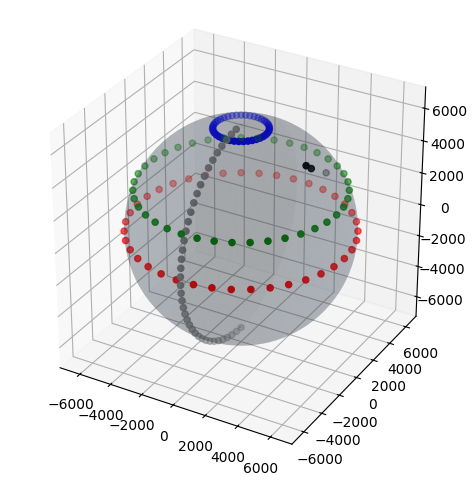
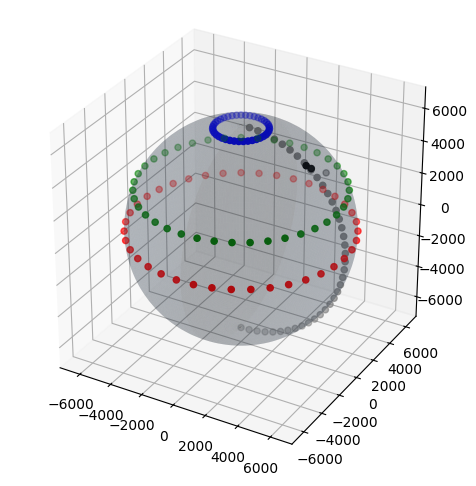
post hav fixies II

diff --git a/_site/posts/gds-2024-01-10-haversine-dist/index.html b/_site/posts/gds-2024-01-10-haversine-dist/index.html
@@ -271,7 +271,7 @@ window.Quarto = {
   <li><a href="#sec-haversine-distance" id="toc-sec-haversine-distance" class="nav-link" data-scroll-target="#sec-haversine-distance">Haversine Distance</a></li>
   <li><a href="#sec-implementation" id="toc-sec-implementation" class="nav-link" data-scroll-target="#sec-implementation">Implementation and examples</a></li>
   <li><a href="#sec-numerical-stability" id="toc-sec-numerical-stability" class="nav-link" data-scroll-target="#sec-numerical-stability">Numerical stability</a></li>
-  <li><a href="#sec-vincentry-formula" id="toc-sec-vincentry-formula" class="nav-link" data-scroll-target="#sec-vincentry-formula">See also: Vincety’s formula</a></li>
+  <li><a href="#sec-vincentry-formula" id="toc-sec-vincentry-formula" class="nav-link" data-scroll-target="#sec-vincentry-formula">See also: Vincenty’s formula</a></li>
   </ul>
 </nav>
     </div>
@@ -332,7 +332,7 @@ Figure&nbsp;1
 <section id="sec-map-projection" class="level2">
 <h2 class="anchored" data-anchor-id="sec-map-projection">Map Projection on the Sphere Experiments</h2>
 <p>To check all is working correctly we will plot on the 3D sphere a sequence of equidistant points around the equator (in red), around the tropic of Cancer (in green), around the Arctic Polar circle (of course in blue), and then the cities of Rome, Paris and London (in black). To show a visual reference to make sense of the position of these three cities, we also plot the meridian zero (in gray).</p>
-<div id="cell-3" class="cell" data-execution_count="1">
+<div id="cell-3" class="cell" data-execution_count="15">
 <div class="sourceCode cell-code" id="cb1"><pre class="sourceCode python code-with-copy"><code class="sourceCode python"><span id="cb1-1"><a href="#cb1-1" aria-hidden="true" tabindex="-1"></a><span class="im">import</span> numpy <span class="im">as</span> np</span>
 <span id="cb1-2"><a href="#cb1-2" aria-hidden="true" tabindex="-1"></a></span>
 <span id="cb1-3"><a href="#cb1-3" aria-hidden="true" tabindex="-1"></a></span>
@@ -346,7 +346,7 @@ Figure&nbsp;1
 <span id="cb1-11"><a href="#cb1-11" aria-hidden="true" tabindex="-1"></a>    <span class="cf">return</span> (x, y, z)</span>
 <span id="cb1-12"><a href="#cb1-12" aria-hidden="true" tabindex="-1"></a>    </span></code><button title="Copy to Clipboard" class="code-copy-button"><i class="bi"></i></button></pre></div>
 </div>
-<div id="cell-4" class="cell" data-execution_count="2">
+<div id="cell-4" class="cell" data-execution_count="16">
 <div class="sourceCode cell-code" id="cb2"><pre class="sourceCode python code-with-copy"><code class="sourceCode python"><span id="cb2-1"><a href="#cb2-1" aria-hidden="true" tabindex="-1"></a>N <span class="op">=</span> <span class="dv">40</span></span>
 <span id="cb2-2"><a href="#cb2-2" aria-hidden="true" tabindex="-1"></a></span>
 <span id="cb2-3"><a href="#cb2-3" aria-hidden="true" tabindex="-1"></a><span class="co"># Create N equidistant points around the equator</span></span>
@@ -363,14 +363,14 @@ Figure&nbsp;1
 <span id="cb2-14"><a href="#cb2-14" aria-hidden="true" tabindex="-1"></a></span>
 <span id="cb2-15"><a href="#cb2-15" aria-hidden="true" tabindex="-1"></a><span class="co"># Create N equidistant points at meridian 0</span></span>
 <span id="cb2-16"><a href="#cb2-16" aria-hidden="true" tabindex="-1"></a>lat_at_meridian_deg <span class="op">=</span> np.linspace(<span class="op">-</span><span class="dv">90</span>, <span class="dv">90</span>, N)[:<span class="op">-</span><span class="dv">1</span>]</span>
-<span id="cb2-17"><a href="#cb2-17" aria-hidden="true" tabindex="-1"></a>lon_at_meridian_deg <span class="op">=</span> <span class="op">-</span><span class="dv">90</span> <span class="op">*</span> np.ones_like(lat_at_meridian_deg) </span>
+<span id="cb2-17"><a href="#cb2-17" aria-hidden="true" tabindex="-1"></a>lon_at_meridian_deg <span class="op">=</span> np.ones_like(lat_at_meridian_deg) </span>
 <span id="cb2-18"><a href="#cb2-18" aria-hidden="true" tabindex="-1"></a></span>
 <span id="cb2-19"><a href="#cb2-19" aria-hidden="true" tabindex="-1"></a><span class="co"># a selection of 3 cities</span></span>
 <span id="cb2-20"><a href="#cb2-20" aria-hidden="true" tabindex="-1"></a>lon_lat_london <span class="op">=</span> ( <span class="fl">0.1276</span>, <span class="fl">51.5072</span>)</span>
 <span id="cb2-21"><a href="#cb2-21" aria-hidden="true" tabindex="-1"></a>lon_lat_paris  <span class="op">=</span> ( <span class="fl">2.3522</span>, <span class="fl">48.8566</span>)</span>
 <span id="cb2-22"><a href="#cb2-22" aria-hidden="true" tabindex="-1"></a>lon_lat_rome   <span class="op">=</span> (<span class="fl">12.4964</span>, <span class="fl">41.9028</span>)</span></code><button title="Copy to Clipboard" class="code-copy-button"><i class="bi"></i></button></pre></div>
 </div>
-<div id="cell-5" class="cell" data-execution_count="3">
+<div id="cell-5" class="cell" data-execution_count="17">
 <div class="sourceCode cell-code" id="cb3"><pre class="sourceCode python code-with-copy"><code class="sourceCode python"><span id="cb3-1"><a href="#cb3-1" aria-hidden="true" tabindex="-1"></a><span class="im">import</span> matplotlib.pyplot <span class="im">as</span> plt</span>
 <span id="cb3-2"><a href="#cb3-2" aria-hidden="true" tabindex="-1"></a></span>
 <span id="cb3-3"><a href="#cb3-3" aria-hidden="true" tabindex="-1"></a>fig <span class="op">=</span> plt.figure()</span>
@@ -428,7 +428,7 @@ Figure&nbsp;2
 </figure>
 </div>
 <p>So now we know how to adjust for the number of points to maintain their distance equal while modulating the latitude.</p>
-<div id="cell-8" class="cell" data-execution_count="4">
+<div id="cell-8" class="cell" data-execution_count="18">
 <div class="sourceCode cell-code" id="cb4"><pre class="sourceCode python code-with-copy"><code class="sourceCode python"><span id="cb4-1"><a href="#cb4-1" aria-hidden="true" tabindex="-1"></a><span class="kw">def</span> num_points_at_latitude(num_points, latitude_deg):</span>
 <span id="cb4-2"><a href="#cb4-2" aria-hidden="true" tabindex="-1"></a>    <span class="cf">return</span> <span class="bu">int</span>(num_points <span class="op">*</span> np.cos(np.radians(latitude_deg)))</span>
 <span id="cb4-3"><a href="#cb4-3" aria-hidden="true" tabindex="-1"></a></span>
@@ -457,7 +457,7 @@ at the tropic: 36
 at the equator: 40</code></pre>
 </div>
 </div>
-<div id="cell-9" class="cell" data-execution_count="5">
+<div id="cell-9" class="cell" data-execution_count="19">
 <div class="sourceCode cell-code" id="cb6"><pre class="sourceCode python code-with-copy"><code class="sourceCode python"><span id="cb6-1"><a href="#cb6-1" aria-hidden="true" tabindex="-1"></a><span class="co"># Repeated code from cells above</span></span>
 <span id="cb6-2"><a href="#cb6-2" aria-hidden="true" tabindex="-1"></a></span>
 <span id="cb6-3"><a href="#cb6-3" aria-hidden="true" tabindex="-1"></a>fig <span class="op">=</span> plt.figure()</span>
@@ -584,8 +584,8 @@ d = 2 \mathcal{R} \arcsin
 <section id="proof-of-eq-hav-1" class="level4">
 <h4 class="anchored" data-anchor-id="proof-of-eq-hav-1">Proof of <a href="#eq-hav-1" class="quarto-xref">Equation&nbsp;5</a></h4>
 <p><strong>Hypothesis:</strong> <span class="math inline">\(A\)</span> and <span class="math inline">\(B\)</span> points on the surface of a sphere, with coordinates</p>
-<p><span class="math inline">\(A=(\varphi_A, \theta_A) = (\cos\theta_A~\cos\varphi_A, \sin\theta_A~\cos\varphi_A, \sin\varphi_A )\)</span> and</p>
-<p><span class="math inline">\(B=(\varphi_B, \theta_B) = (\cos\theta_B~\cos\varphi_B, \sin\theta_B~\cos\varphi_B, \sin\varphi_B )\)</span></p>
+<p><span class="math inline">\(A=(\theta_A, \varphi_A) = (\cos\theta_A~\cos\varphi_A, \sin\theta_A~\cos\varphi_A, \sin\varphi_A )\)</span> and</p>
+<p><span class="math inline">\(B=(\theta_B, \varphi_B) = (\cos\theta_B~\cos\varphi_B, \sin\theta_B~\cos\varphi_B, \sin\varphi_B )\)</span></p>
 <p>and <span class="math inline">\(\lambda\)</span> angle at the centre of the sphere.</p>
 <p><strong>Thesis:</strong> <span class="math inline">\(\text{hav}(\lambda) = \text{hav}(\varphi_B - \varphi_A) + \cos\varphi_A \cos\varphi_B ~\text{hav}(\theta_B - \theta_A)\)</span>.</p>
 <p>It is always possible to rotate the axis so to have <span class="math inline">\(\theta_A = 0\)</span>, and <span class="math inline">\(\tilde{\theta}_B = \theta_B - \theta_A\)</span>. In the new coordinate system we have: <span class="math display">\[
@@ -629,7 +629,7 @@ B &amp;=(\cos\tilde{\theta}_B~\cos\varphi_B, \sin\tilde{\theta}_B~\cos\varphi_B,
 <section id="sec-implementation" class="level2">
 <h2 class="anchored" data-anchor-id="sec-implementation">Implementation and examples</h2>
 <p>From a computational point of view, as sadi before, we want to avoid computing <span class="math inline">\(\sin\)</span> when the angles are very small. So a stable implementation would use the last part of <a href="#eq-hav-0" class="quarto-xref">Equation&nbsp;2</a>.</p>
-<div id="cell-17" class="cell" data-execution_count="6">
+<div id="cell-17" class="cell" data-execution_count="20">
 <div class="sourceCode cell-code" id="cb7"><pre class="sourceCode python code-with-copy"><code class="sourceCode python"><span id="cb7-1"><a href="#cb7-1" aria-hidden="true" tabindex="-1"></a><span class="co">""" Haversine function in python"""</span></span>
 <span id="cb7-2"><a href="#cb7-2" aria-hidden="true" tabindex="-1"></a></span>
 <span id="cb7-3"><a href="#cb7-3" aria-hidden="true" tabindex="-1"></a><span class="kw">def</span> hav_function_sin(theta_A, phi_A, theta_B, phi_B):</span>
@@ -641,7 +641,7 @@ B &amp;=(\cos\tilde{\theta}_B~\cos\varphi_B, \sin\tilde{\theta}_B~\cos\varphi_B,
 <span id="cb7-9"><a href="#cb7-9" aria-hidden="true" tabindex="-1"></a>    theta_1, phi_1, theta_2, phi_2 <span class="op">=</span> <span class="bu">map</span>(np.radians, [lon_1, lat_1, lon_2, lat_2])</span>
 <span id="cb7-10"><a href="#cb7-10" aria-hidden="true" tabindex="-1"></a>    <span class="cf">return</span> <span class="dv">2</span> <span class="op">*</span> R_Km <span class="op">*</span> np.arcsin(np.sqrt(hav_function_sin(theta_1, phi_1, theta_2, phi_2)))</span></code><button title="Copy to Clipboard" class="code-copy-button"><i class="bi"></i></button></pre></div>
 </div>
-<div id="cell-18" class="cell" data-execution_count="7">
+<div id="cell-18" class="cell" data-execution_count="21">
 <div class="sourceCode cell-code" id="cb8"><pre class="sourceCode python code-with-copy"><code class="sourceCode python"><span id="cb8-1"><a href="#cb8-1" aria-hidden="true" tabindex="-1"></a><span class="co"># Verify that it looks correct:</span></span>
 <span id="cb8-2"><a href="#cb8-2" aria-hidden="true" tabindex="-1"></a>PREC <span class="op">=</span> <span class="dv">6</span></span>
 <span id="cb8-3"><a href="#cb8-3" aria-hidden="true" tabindex="-1"></a><span class="bu">print</span>(<span class="ss">f"Distance London to London = </span><span class="sc">{</span><span class="bu">round</span>(haversine_distance_sin(<span class="op">*</span>lon_lat_london, <span class="op">*</span>lon_lat_london), PREC)<span class="sc">}</span><span class="ss"> Km"</span>)</span>
@@ -654,7 +654,7 @@ Distance Paris to London  = 334.563443 Km</code></pre>
 </div>
 </div>
 <p>It seems to be working correctly. Let’s compare it with an out of the box function from the library <code>sklearn</code> (see also this <a href="https://stackoverflow.com/questions/4913349/haversine-formula-in-python-bearing-and-distance-between-two-gps-points">stack overflow discussion</a> and <a href="https://stackoverflow.com/questions/19412462/getting-distance-between-two-points-based-on-latitude-longitude">this one</a>)</p>
-<div id="cell-20" class="cell" data-execution_count="8">
+<div id="cell-20" class="cell" data-execution_count="22">
 <div class="sourceCode cell-code" id="cb10"><pre class="sourceCode python code-with-copy"><code class="sourceCode python"><span id="cb10-1"><a href="#cb10-1" aria-hidden="true" tabindex="-1"></a><span class="im">from</span> sklearn.metrics.pairwise <span class="im">import</span> haversine_distances <span class="im">as</span> haversine_distances_sklearn</span>
 <span id="cb10-2"><a href="#cb10-2" aria-hidden="true" tabindex="-1"></a></span>
 <span id="cb10-3"><a href="#cb10-3" aria-hidden="true" tabindex="-1"></a>lon_A, lat_A <span class="op">=</span> lon_lat_london</span>
@@ -671,7 +671,7 @@ Distance Paris to London  = 334.563443 Km</code></pre>
 <section id="sec-numerical-stability" class="level2">
 <h2 class="anchored" data-anchor-id="sec-numerical-stability">Numerical stability</h2>
 <p>Let’s see what happens in term of numerical stability. We take now two points in london very close to each others:</p>
-<div id="cell-22" class="cell" data-execution_count="9">
+<div id="cell-22" class="cell" data-execution_count="23">
 <div class="sourceCode cell-code" id="cb12"><pre class="sourceCode python code-with-copy"><code class="sourceCode python"><span id="cb12-1"><a href="#cb12-1" aria-hidden="true" tabindex="-1"></a>lon_lat_london_1 <span class="op">=</span> (<span class="fl">0.1276</span>, <span class="fl">51.5072</span>)</span>
 <span id="cb12-2"><a href="#cb12-2" aria-hidden="true" tabindex="-1"></a>lon_lat_london_2 <span class="op">=</span> (<span class="fl">0.1276</span>, <span class="fl">51.50720001</span>)</span>
 <span id="cb12-3"><a href="#cb12-3" aria-hidden="true" tabindex="-1"></a>PREC <span class="op">=</span> <span class="dv">20</span></span>
@@ -683,7 +683,7 @@ Distance Paris to London  = 334.563443 Km</code></pre>
 </div>
 <p>We can see that our implementation with the haversine function, computed with the <code>sin</code> version, does not collapse to zero.</p>
 <p>What happens if we re-implement with function with the cosine?</p>
-<div id="cell-24" class="cell" data-execution_count="10">
+<div id="cell-24" class="cell" data-execution_count="24">
 <div class="sourceCode cell-code" id="cb14"><pre class="sourceCode python code-with-copy"><code class="sourceCode python"><span id="cb14-1"><a href="#cb14-1" aria-hidden="true" tabindex="-1"></a><span class="co"># repeated code with a small change. Now the Haversine function is computed with the cosine</span></span>
 <span id="cb14-2"><a href="#cb14-2" aria-hidden="true" tabindex="-1"></a></span>
 <span id="cb14-3"><a href="#cb14-3" aria-hidden="true" tabindex="-1"></a><span class="kw">def</span> hav_function_cos(theta_A, phi_A, theta_B, phi_B):</span>
@@ -695,7 +695,7 @@ Distance Paris to London  = 334.563443 Km</code></pre>
 <span id="cb14-9"><a href="#cb14-9" aria-hidden="true" tabindex="-1"></a>    theta_1, phi_1, theta_2, phi_2 <span class="op">=</span> <span class="bu">map</span>(np.radians, [lon_1, lat_1, lon_2, lat_2])</span>
 <span id="cb14-10"><a href="#cb14-10" aria-hidden="true" tabindex="-1"></a>    <span class="cf">return</span> <span class="dv">2</span> <span class="op">*</span> R_Km <span class="op">*</span> np.arcsin(np.sqrt(hav_function_cos(theta_1, phi_1, theta_2, phi_2)))</span></code><button title="Copy to Clipboard" class="code-copy-button"><i class="bi"></i></button></pre></div>
 </div>
-<div id="cell-25" class="cell" data-execution_count="11">
+<div id="cell-25" class="cell" data-execution_count="25">
 <div class="sourceCode cell-code" id="cb15"><pre class="sourceCode python code-with-copy"><code class="sourceCode python"><span id="cb15-1"><a href="#cb15-1" aria-hidden="true" tabindex="-1"></a><span class="bu">print</span>(<span class="ss">f"Distance London to Paris (hav with cos) = </span><span class="sc">{</span><span class="bu">round</span>(haversine_distance_cos(<span class="op">*</span>lon_lat_london, <span class="op">*</span>lon_lat_paris), PREC)<span class="sc">}</span><span class="ss"> Km"</span>)</span>
 <span id="cb15-2"><a href="#cb15-2" aria-hidden="true" tabindex="-1"></a><span class="bu">print</span>(<span class="ss">f"Very small distance (hav with cos)      = </span><span class="sc">{</span><span class="bu">round</span>(haversine_distance_cos(<span class="op">*</span>lon_lat_london_1, <span class="op">*</span>lon_lat_london_2), PREC)<span class="sc">}</span><span class="ss"> Km"</span>)</span>
 <span id="cb15-3"><a href="#cb15-3" aria-hidden="true" tabindex="-1"></a><span class="bu">print</span>(<span class="ss">f"Very small distance (hav with sin)      = </span><span class="sc">{</span><span class="bu">round</span>(haversine_distance_sin(<span class="op">*</span>lon_lat_london_1, <span class="op">*</span>lon_lat_london_2), PREC)<span class="sc">}</span><span class="ss"> Km"</span>)</span></code><button title="Copy to Clipboard" class="code-copy-button"><i class="bi"></i></button></pre></div>
@@ -707,7 +707,7 @@ Very small distance (hav with sin)      = 1.11194938401393e-06 Km</code></pre>
 </div>
 <p>The function works well for large angles, though for small angle the Haversine distance computed with the cosine collapses.</p>
 <p>Had the developers of <code>sklearn</code> use the <code>sin</code> or the <code>cos</code>?</p>
-<div id="cell-27" class="cell" data-execution_count="12">
+<div id="cell-27" class="cell" data-execution_count="26">
 <div class="sourceCode cell-code" id="cb17"><pre class="sourceCode python code-with-copy"><code class="sourceCode python"><span id="cb17-1"><a href="#cb17-1" aria-hidden="true" tabindex="-1"></a>lon_A, lat_A <span class="op">=</span> lon_lat_london_1</span>
 <span id="cb17-2"><a href="#cb17-2" aria-hidden="true" tabindex="-1"></a>lon_B, lat_B <span class="op">=</span> lon_lat_london_2</span>
 <span id="cb17-3"><a href="#cb17-3" aria-hidden="true" tabindex="-1"></a>vals <span class="op">=</span> [[np.radians(lat_A), np.radians(lon_A)], [np.radians(lat_B), np.radians(lon_B)]]</span>
@@ -723,10 +723,10 @@ Very small distance (hav with sin)      = 1.11194938401393e-06 Km</code></pre>
 <p>We can see that (at least for this case) our results and the <code>sklearn</code> implementation are the same! And we may even daring to assume that <code>sklearn</code> implemented the haversine distance with the <code>sin</code> formula.</p>
 </section>
 <section id="sec-vincentry-formula" class="level2">
-<h2 class="anchored" data-anchor-id="sec-vincentry-formula">See also: Vincety’s formula</h2>
-<p>To compute the distance between two points on an ellipsoid model (which is more accurate than the spherical model on which the Haversine is based on) there is the Vincety formula.</p>
+<h2 class="anchored" data-anchor-id="sec-vincentry-formula">See also: Vincenty’s formula</h2>
+<p>To compute the distance between two points on an ellipsoid model (which is more accurate than the spherical model on which the Haversine is based on) there is the Vincenty formula <a href="#fn2" class="footnote-ref" id="fnref2" role="doc-noteref"><sup>2</sup></a>.</p>
 <p>Its mathematical derivation may be the topic for another post, though if you want to have it computed with a tool out of the box, we recommend the library <code>geopy</code>.</p>
-<div id="cell-30" class="cell" data-execution_count="13">
+<div id="cell-30" class="cell" data-execution_count="27">
 <div class="sourceCode cell-code" id="cb19"><pre class="sourceCode python code-with-copy"><code class="sourceCode python"><span id="cb19-1"><a href="#cb19-1" aria-hidden="true" tabindex="-1"></a><span class="im">from</span> geopy <span class="im">import</span> distance</span>
 <span id="cb19-2"><a href="#cb19-2" aria-hidden="true" tabindex="-1"></a></span>
 <span id="cb19-3"><a href="#cb19-3" aria-hidden="true" tabindex="-1"></a>lon_A, lat_A <span class="op">=</span> lon_lat_london</span>
@@ -756,6 +756,7 @@ Relative error = |ground - calculated|/|ground| = 0.095689 %</code></pre>
 
 <ol>
 <li id="fn1"><p>See for example by JP Snyder · 1987 <a href="https://pubs.usgs.gov/publication/pp1395">“Map projections: A working manual”</a>, U.S. Government Printing Office, or H.S. Roblin “Map projections”, Edward Arnold Publisher Ltd.<a href="#fnref1" class="footnote-back" role="doc-backlink">↩</a></p></li>
+<li id="fn2"><p>The original Vincenty’s paper by can be found <a href="https://www.ngs.noaa.gov/wp-content/uploads/2018/12/inverse.pdf">here</a><a href="#fnref2" class="footnote-back" role="doc-backlink">↩</a></p></li>
 </ol>
 </section></div></main> <!-- /main -->
 <script id="quarto-html-after-body" type="application/javascript">

diff --git a/_site/posts/all.html b/_site/posts/all.html
@@ -249,7 +249,7 @@ window.Quarto = {
 
 <div class="quarto-listing quarto-listing-container-default" id="listing-all-post">
 <div class="list quarto-listing-default">
-<div class="quarto-post image-right" data-index="0" data-listing-file-modified-sort="1713045741058">
+<div class="quarto-post image-right" data-index="0" data-listing-file-modified-sort="1713483693460">
 <div class="thumbnail">
 <p><a href="../posts/gds-2022-07-29-office-pos/index.html" class="no-external"></a></p><a href="../posts/gds-2022-07-29-office-pos/index.html" class="no-external">
 </a><p><a href="../posts/gds-2022-07-29-office-pos/index.html" class="no-external"></a></p>
@@ -267,7 +267,7 @@ window.Quarto = {
 </a>
 </div>
 </div>
-<div class="quarto-post image-right" data-index="1" data-listing-file-modified-sort="1713045740527">
+<div class="quarto-post image-right" data-index="1" data-listing-file-modified-sort="1713483692911">
 <div class="thumbnail">
 <p><a href="../posts/gds-2024-01-10-haversine-dist/index.html" class="no-external"></a></p><a href="../posts/gds-2024-01-10-haversine-dist/index.html" class="no-external">
 </a><p><a href="../posts/gds-2024-01-10-haversine-dist/index.html" class="no-external"></a></p>
@@ -285,7 +285,7 @@ window.Quarto = {
 </a>
 </div>
 </div>
-<div class="quarto-post image-right" data-index="2" data-listing-file-modified-sort="1713045740112">
+<div class="quarto-post image-right" data-index="2" data-listing-file-modified-sort="1713483692521">
 <div class="thumbnail">
 <p><a href="../posts/gds-2024-01-24-timestamp/index.html" class="no-external"></a></p><a href="../posts/gds-2024-01-24-timestamp/index.html" class="no-external">
 </a><p><a href="../posts/gds-2024-01-24-timestamp/index.html" class="no-external"></a></p>
@@ -303,7 +303,7 @@ window.Quarto = {
 </a>
 </div>
 </div>
-<div class="quarto-post image-right" data-index="3" data-categories="tutorial,geospatial" data-listing-date-sort="1706054400000" data-listing-file-modified-sort="1713045194600" data-listing-date-modified-sort="NaN" data-listing-reading-time-sort="8" data-listing-word-count-sort="1501">
+<div class="quarto-post image-right" data-index="3" data-categories="tutorial,geospatial" data-listing-date-sort="1706054400000" data-listing-file-modified-sort="1713483653634" data-listing-date-modified-sort="NaN" data-listing-reading-time-sort="8" data-listing-word-count-sort="1501">
 <div class="thumbnail">
 <p><a href="../posts/gds-2024-01-24-timestamp/index.html" class="no-external"></a></p><a href="../posts/gds-2024-01-24-timestamp/index.html" class="no-external">
 <p><img src="../posts/gds-2024-01-24-timestamp/images/cover.png" class="thumbnail-image"></p>
@@ -331,7 +331,7 @@ Jan 24, 2024
 
 </div>
 </div>
-<div class="quarto-post image-right" data-index="4" data-categories="tutorial,geospatial,mathematics" data-listing-date-sort="1705104000000" data-listing-file-modified-sort="1713045058140" data-listing-date-modified-sort="NaN" data-listing-reading-time-sort="11" data-listing-word-count-sort="2184">
+<div class="quarto-post image-right" data-index="4" data-categories="tutorial,geospatial,mathematics" data-listing-date-sort="1705104000000" data-listing-file-modified-sort="1713483677239" data-listing-date-modified-sort="NaN" data-listing-reading-time-sort="11" data-listing-word-count-sort="2194">
 <div class="thumbnail">
 <p><a href="../posts/gds-2024-01-10-haversine-dist/index.html" class="no-external"></a></p><a href="../posts/gds-2024-01-10-haversine-dist/index.html" class="no-external">
 <p><img src="../posts/gds-2024-01-10-haversine-dist/images/cover.png" class="thumbnail-image"></p>
@@ -387,7 +387,7 @@ Oct 3, 2022
 
 </div>
 </div>
-<div class="quarto-post image-right" data-index="6" data-categories="tutorial,data-science,geospatial" data-listing-date-sort="1659049200000" data-listing-file-modified-sort="1713045705169" data-listing-date-modified-sort="NaN" data-listing-reading-time-sort="13" data-listing-word-count-sort="2549">
+<div class="quarto-post image-right" data-index="6" data-categories="tutorial,data-science,geospatial" data-listing-date-sort="1659049200000" data-listing-file-modified-sort="1713483653628" data-listing-date-modified-sort="NaN" data-listing-reading-time-sort="13" data-listing-word-count-sort="2549">
 <div class="thumbnail">
 <p><a href="../posts/gds-2022-07-29-office-pos/index.html" class="no-external"></a></p><a href="../posts/gds-2022-07-29-office-pos/index.html" class="no-external">
 <p><img src="../posts/gds-2022-07-29-office-pos/images/cover_office_positioning.png" class="thumbnail-image"></p>

diff --git a/_site/posts/gds.html b/_site/posts/gds.html
@@ -249,7 +249,7 @@ window.Quarto = {
 
 <div class="quarto-listing quarto-listing-container-default" id="listing-listing">
 <div class="list quarto-listing-default">
-<div class="quarto-post image-right" data-index="0" data-listing-file-modified-sort="1713045741058">
+<div class="quarto-post image-right" data-index="0" data-listing-file-modified-sort="1713483693460">
 <div class="thumbnail">
 <p><a href="../posts/gds-2022-07-29-office-pos/index.html" class="no-external"></a></p><a href="../posts/gds-2022-07-29-office-pos/index.html" class="no-external">
 </a><p><a href="../posts/gds-2022-07-29-office-pos/index.html" class="no-external"></a></p>
@@ -267,7 +267,7 @@ window.Quarto = {
 </a>
 </div>
 </div>
-<div class="quarto-post image-right" data-index="1" data-listing-file-modified-sort="1713045740527">
+<div class="quarto-post image-right" data-index="1" data-listing-file-modified-sort="1713483692911">
 <div class="thumbnail">
 <p><a href="../posts/gds-2024-01-10-haversine-dist/index.html" class="no-external"></a></p><a href="../posts/gds-2024-01-10-haversine-dist/index.html" class="no-external">
 </a><p><a href="../posts/gds-2024-01-10-haversine-dist/index.html" class="no-external"></a></p>
@@ -285,7 +285,7 @@ window.Quarto = {
 </a>
 </div>
 </div>
-<div class="quarto-post image-right" data-index="2" data-listing-file-modified-sort="1713045740112">
+<div class="quarto-post image-right" data-index="2" data-listing-file-modified-sort="1713483692521">
 <div class="thumbnail">
 <p><a href="../posts/gds-2024-01-24-timestamp/index.html" class="no-external"></a></p><a href="../posts/gds-2024-01-24-timestamp/index.html" class="no-external">
 </a><p><a href="../posts/gds-2024-01-24-timestamp/index.html" class="no-external"></a></p>
@@ -303,7 +303,7 @@ window.Quarto = {
 </a>
 </div>
 </div>
-<div class="quarto-post image-right" data-index="3" data-categories="tutorial,geospatial" data-listing-date-sort="1706054400000" data-listing-file-modified-sort="1713045194600" data-listing-date-modified-sort="NaN" data-listing-reading-time-sort="8" data-listing-word-count-sort="1501">
+<div class="quarto-post image-right" data-index="3" data-categories="tutorial,geospatial" data-listing-date-sort="1706054400000" data-listing-file-modified-sort="1713483653634" data-listing-date-modified-sort="NaN" data-listing-reading-time-sort="8" data-listing-word-count-sort="1501">
 <div class="thumbnail">
 <p><a href="../posts/gds-2024-01-24-timestamp/index.html" class="no-external"></a></p><a href="../posts/gds-2024-01-24-timestamp/index.html" class="no-external">
 <p><img src="../posts/gds-2024-01-24-timestamp/images/cover.png" class="thumbnail-image"></p>
@@ -331,7 +331,7 @@ Jan 24, 2024
 
 </div>
 </div>
-<div class="quarto-post image-right" data-index="4" data-categories="tutorial,geospatial,mathematics" data-listing-date-sort="1705104000000" data-listing-file-modified-sort="1713045058140" data-listing-date-modified-sort="NaN" data-listing-reading-time-sort="11" data-listing-word-count-sort="2184">
+<div class="quarto-post image-right" data-index="4" data-categories="tutorial,geospatial,mathematics" data-listing-date-sort="1705104000000" data-listing-file-modified-sort="1713483677239" data-listing-date-modified-sort="NaN" data-listing-reading-time-sort="11" data-listing-word-count-sort="2194">
 <div class="thumbnail">
 <p><a href="../posts/gds-2024-01-10-haversine-dist/index.html" class="no-external"></a></p><a href="../posts/gds-2024-01-10-haversine-dist/index.html" class="no-external">
 <p><img src="../posts/gds-2024-01-10-haversine-dist/images/cover.png" class="thumbnail-image"></p>
@@ -387,7 +387,7 @@ Oct 3, 2022
 
 </div>
 </div>
-<div class="quarto-post image-right" data-index="6" data-categories="tutorial,data-science,geospatial" data-listing-date-sort="1659049200000" data-listing-file-modified-sort="1713045705169" data-listing-date-modified-sort="NaN" data-listing-reading-time-sort="13" data-listing-word-count-sort="2549">
+<div class="quarto-post image-right" data-index="6" data-categories="tutorial,data-science,geospatial" data-listing-date-sort="1659049200000" data-listing-file-modified-sort="1713483653628" data-listing-date-modified-sort="NaN" data-listing-reading-time-sort="13" data-listing-word-count-sort="2549">
 <div class="thumbnail">
 <p><a href="../posts/gds-2022-07-29-office-pos/index.html" class="no-external"></a></p><a href="../posts/gds-2022-07-29-office-pos/index.html" class="no-external">
 <p><img src="../posts/gds-2022-07-29-office-pos/images/cover_office_positioning.png" class="thumbnail-image"></p>

diff --git a/_site/index.html b/_site/index.html
@@ -229,7 +229,7 @@ window.Quarto = {
 
 <div class="quarto-listing quarto-listing-container-default" id="listing-posts">
 <div class="list quarto-listing-default">
-<div class="quarto-post image-right" data-index="0" data-categories="tutorial,geospatial" data-listing-date-sort="1706054400000" data-listing-file-modified-sort="1713045194600" data-listing-date-modified-sort="NaN" data-listing-reading-time-sort="8" data-listing-word-count-sort="1501">
+<div class="quarto-post image-right" data-index="0" data-categories="tutorial,geospatial" data-listing-date-sort="1706054400000" data-listing-file-modified-sort="1713483653634" data-listing-date-modified-sort="NaN" data-listing-reading-time-sort="8" data-listing-word-count-sort="1501">
 <div class="thumbnail">
 <p><a href="./posts/gds-2024-01-24-timestamp/index.html" class="no-external"></a></p><a href="./posts/gds-2024-01-24-timestamp/index.html" class="no-external">
 <p><img src="./posts/gds-2024-01-24-timestamp/images/cover.png" class="thumbnail-image"></p>
@@ -257,7 +257,7 @@ Jan 24, 2024
 
 </div>
 </div>
-<div class="quarto-post image-right" data-index="1" data-categories="tutorial,geospatial,mathematics" data-listing-date-sort="1705104000000" data-listing-file-modified-sort="1713045058140" data-listing-date-modified-sort="NaN" data-listing-reading-time-sort="11" data-listing-word-count-sort="2184">
+<div class="quarto-post image-right" data-index="1" data-categories="tutorial,geospatial,mathematics" data-listing-date-sort="1705104000000" data-listing-file-modified-sort="1713483677239" data-listing-date-modified-sort="NaN" data-listing-reading-time-sort="11" data-listing-word-count-sort="2194">
 <div class="thumbnail">
 <p><a href="./posts/gds-2024-01-10-haversine-dist/index.html" class="no-external"></a></p><a href="./posts/gds-2024-01-10-haversine-dist/index.html" class="no-external">
 <p><img src="./posts/gds-2024-01-10-haversine-dist/images/cover.png" class="thumbnail-image"></p>
@@ -313,7 +313,7 @@ Oct 3, 2022
 
 </div>
 </div>
-<div class="quarto-post image-right" data-index="3" data-categories="tutorial,data-science,geospatial" data-listing-date-sort="1659049200000" data-listing-file-modified-sort="1713045705169" data-listing-date-modified-sort="NaN" data-listing-reading-time-sort="13" data-listing-word-count-sort="2549">
+<div class="quarto-post image-right" data-index="3" data-categories="tutorial,data-science,geospatial" data-listing-date-sort="1659049200000" data-listing-file-modified-sort="1713483653628" data-listing-date-modified-sort="NaN" data-listing-reading-time-sort="13" data-listing-word-count-sort="2549">
 <div class="thumbnail">
 <p><a href="./posts/gds-2022-07-29-office-pos/index.html" class="no-external"></a></p><a href="./posts/gds-2022-07-29-office-pos/index.html" class="no-external">
 <p><img src="./posts/gds-2022-07-29-office-pos/images/cover_office_positioning.png" class="thumbnail-image"></p>
